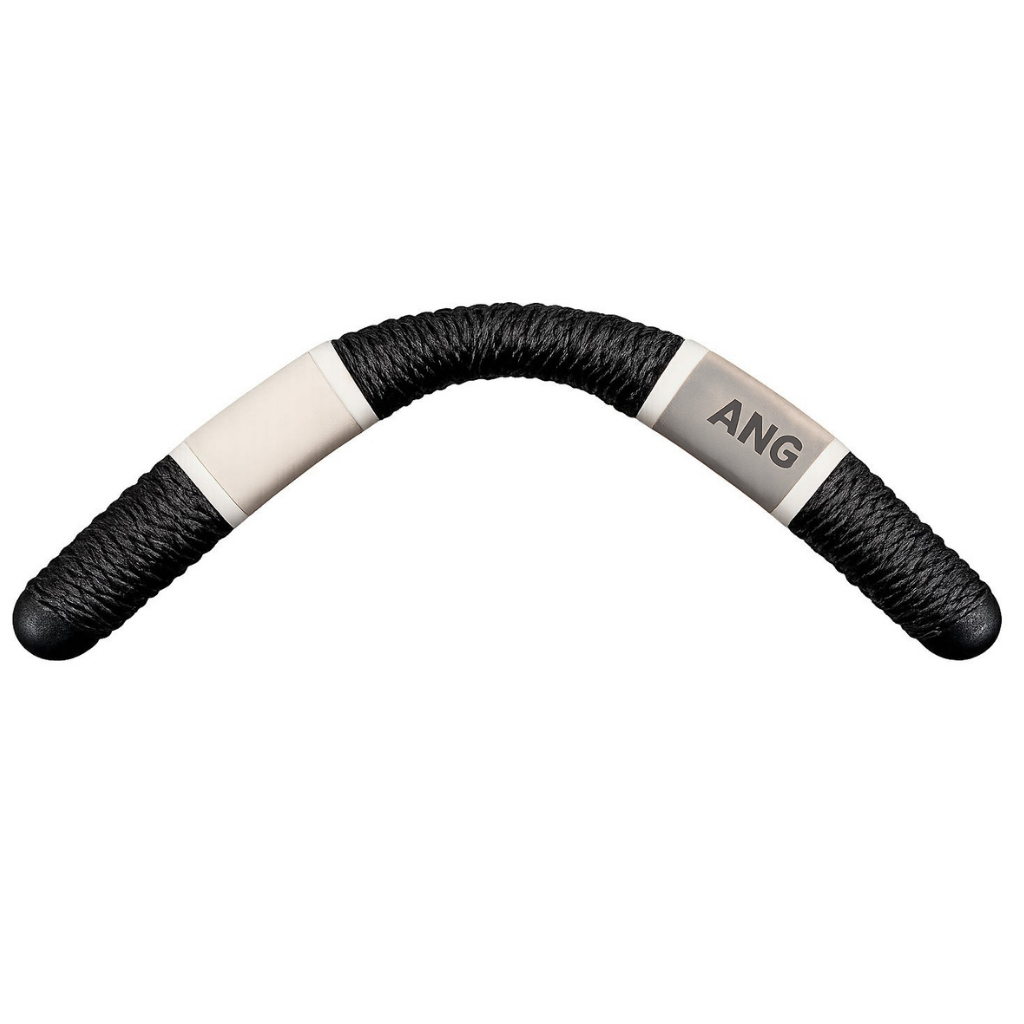
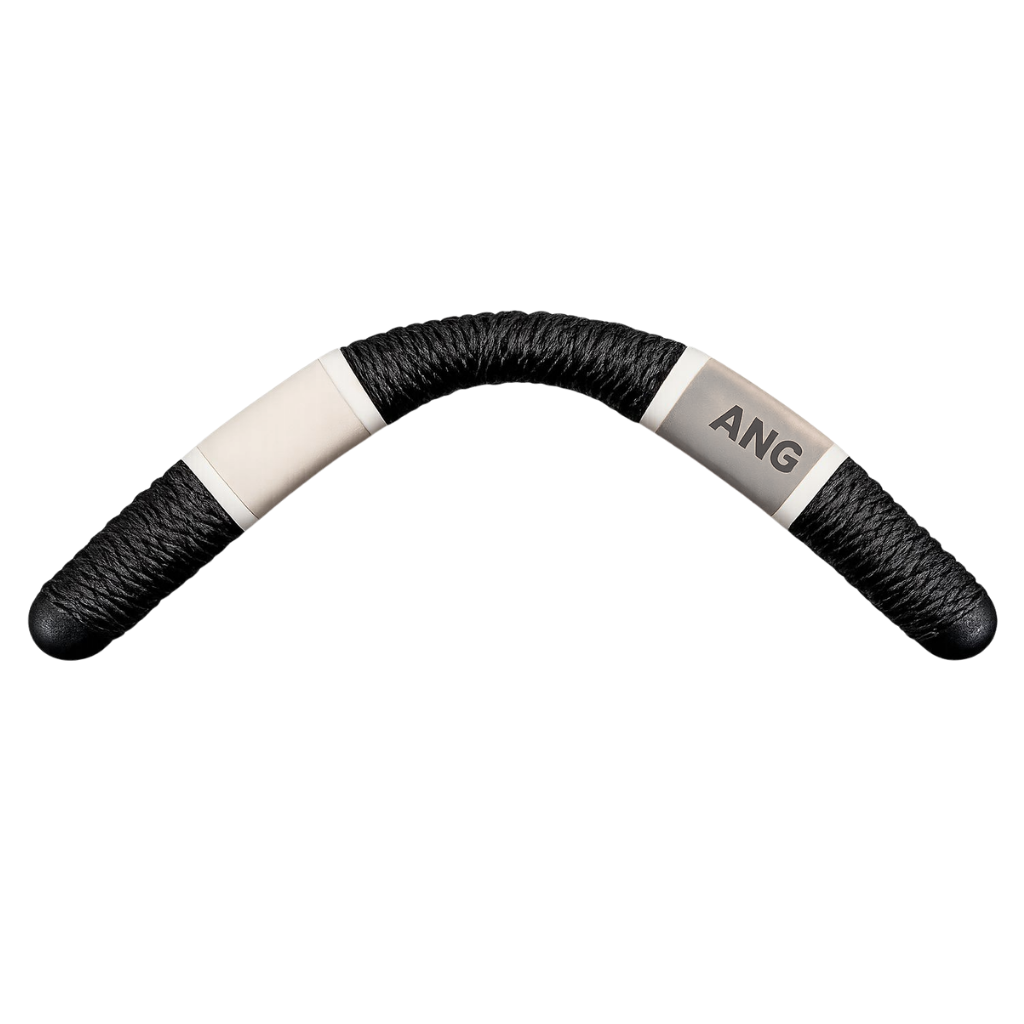
fix(cti-hub): ACHEEVY agent description + loader white bg fix
- ACHEEVY: "Digital CEO" → "Your AI Operations Manager"
  New persona: builds, deploys, manages — the only agent users talk to
  Capabilities updated to match actual product (Guide Me / Manage It)
- Loader: dual-render for light/dark mode to eliminate white bg square
  Light mode uses mix-blend-mode:multiply, dark uses screen+invert
- Updated Boomer_Ang loader image

Changed region(s): [[0.0, 0.2812, 1.0, 0.6562]]

diff --git a/cti-hub/src/app/(dashboard)/loading.tsx b/cti-hub/src/app/(dashboard)/loading.tsx
@@ -1,12 +1,22 @@
 export default function DashboardLoading() {
   return (
     <div className="flex flex-col items-center justify-center h-full min-h-[60vh] gap-6">
-      <img
-        src="/boomer-ang-loader.png"
-        alt="Loading"
-        className="w-40 animate-spin"
-        style={{ animationDuration: '3s', animationTimingFunction: 'linear' }}
-      />
+      <div className="w-40 h-40 relative">
+        {/* Light mode: multiply blends white bg away */}
+        <img
+          src="/boomer-ang-loader.png"
+          alt="Loading"
+          className="w-full h-full object-contain animate-spin dark:hidden"
+          style={{ animationDuration: '3s', animationTimingFunction: 'linear', mixBlendMode: 'multiply' }}
+        />
+        {/* Dark mode: screen blends white bg away on dark surfaces */}
+        <img
+          src="/boomer-ang-loader.png"
+          alt="Loading"
+          className="w-full h-full object-contain animate-spin hidden dark:block invert"
+          style={{ animationDuration: '3s', animationTimingFunction: 'linear', mixBlendMode: 'screen' }}
+        />
+      </div>
       <p className="font-mono text-[11px] text-fg-ghost uppercase tracking-widest">
         Loading...
       </p>

diff --git a/cti-hub/src/lib/agents/registry.ts b/cti-hub/src/lib/agents/registry.ts
@@ -87,12 +87,12 @@ export const AGENTS: AgentProfile[] = [
   {
     id: 'acheevy',
     name: 'ACHEEVY',
-    role: 'Digital CEO',
+    role: 'Your AI Operations Manager',
     department: 'CMD',
     tier: 'command',
-    persona: 'Confident, decisive, revenue-first. Delegates everything. Never does manual work.',
+    persona: 'Your direct line to the entire platform. Builds what you describe, deploys what you approve, and manages everything in between. The only agent you talk to.',
     avatar: '/acheevy-helmet.png',
-    capabilities: ['Strategic planning', 'Agent deployment', 'Cross-department coordination', 'Executive decisions'],
+    capabilities: ['Build orchestration', 'Agent dispatch', 'Service deployment', 'Project management', 'Guide Me / Manage It workflows'],
     mcpToolName: 'acheevy_delegate',
     subscriptionTier: 'all', hireable: false,
   },
